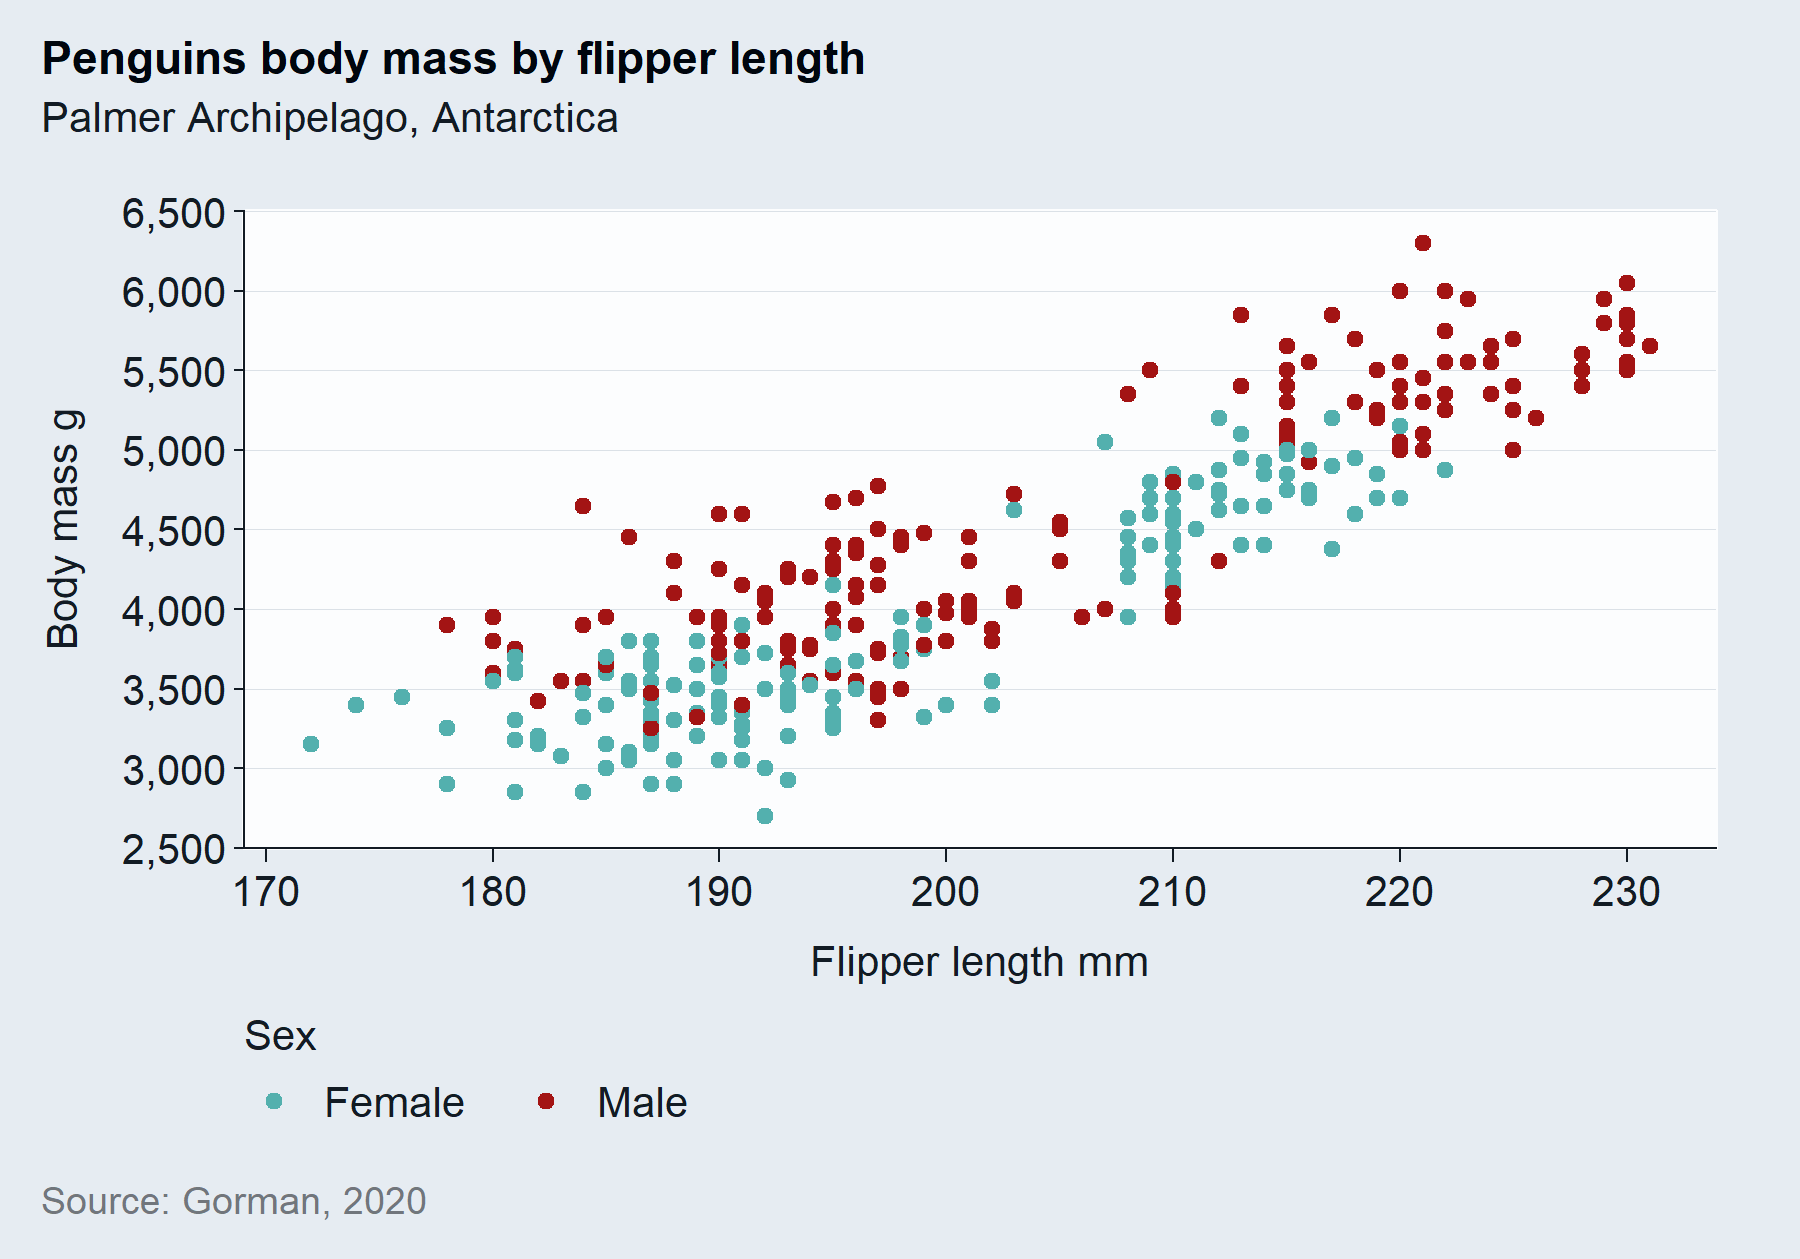
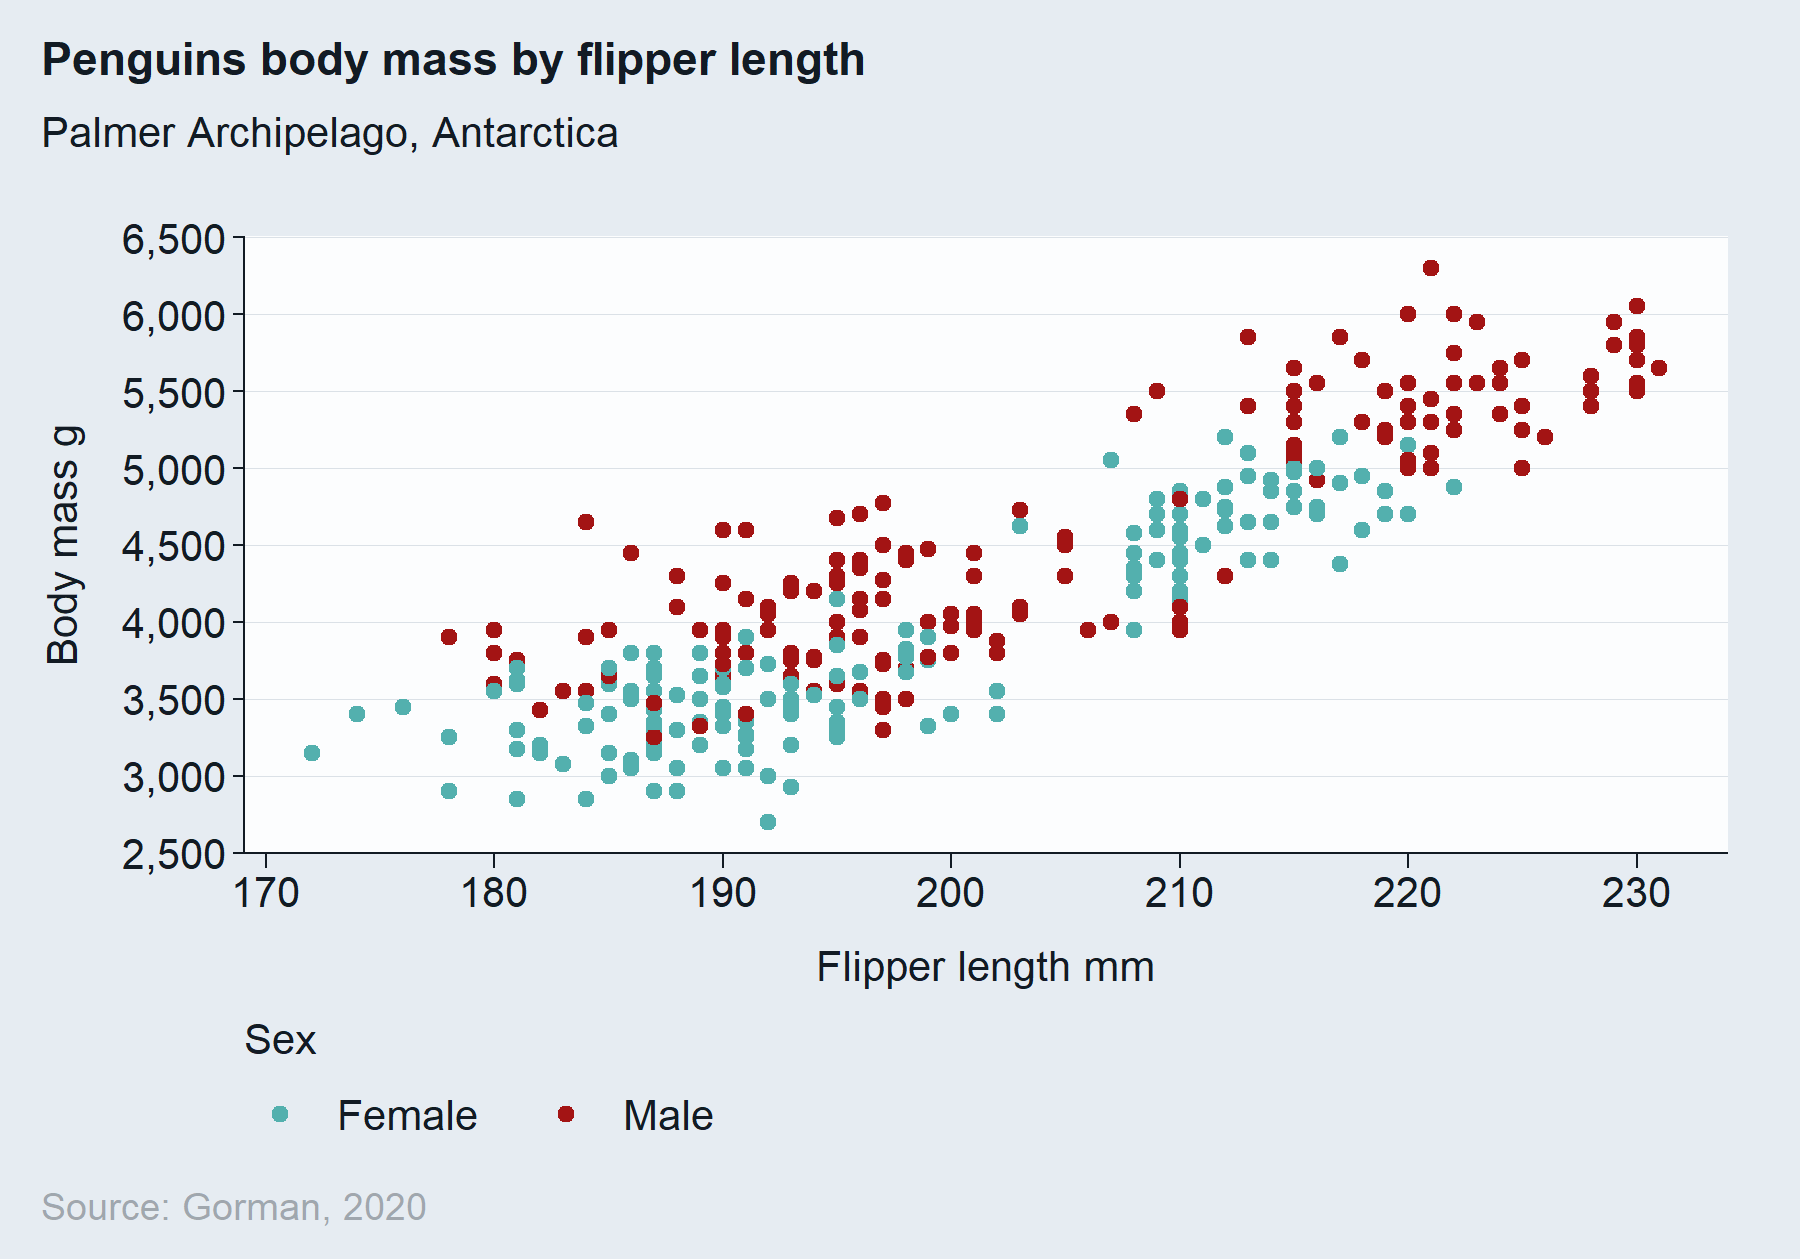
Update

diff --git a/README.md b/README.md
@@ -74,7 +74,7 @@ penguins |>
     title = "Penguins body mass by flipper length",
     subtitle = "Palmer Archipelago, Antarctica",
     caption = "Source: Gorman, 2020",
-    theme = gg_theme_dark()
+    theme = dark_mode()
   )
 ```
 
